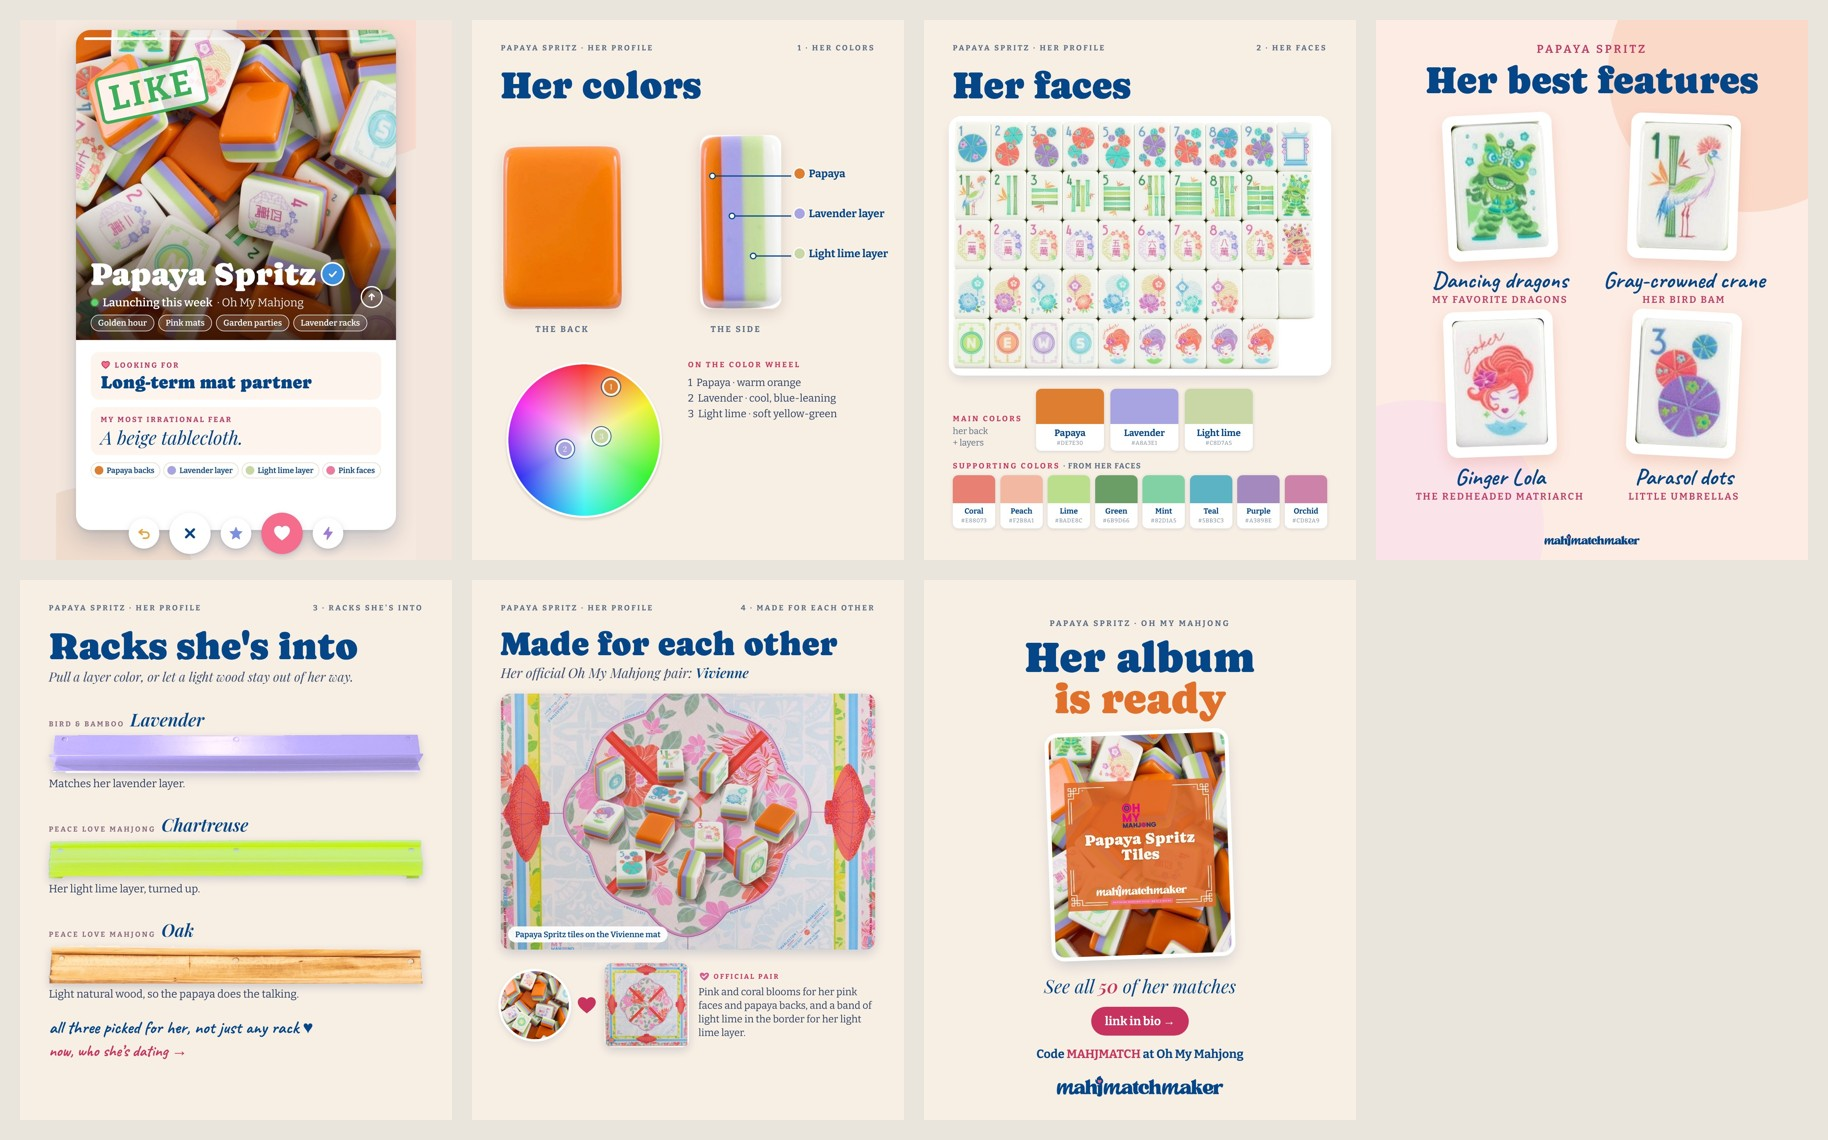
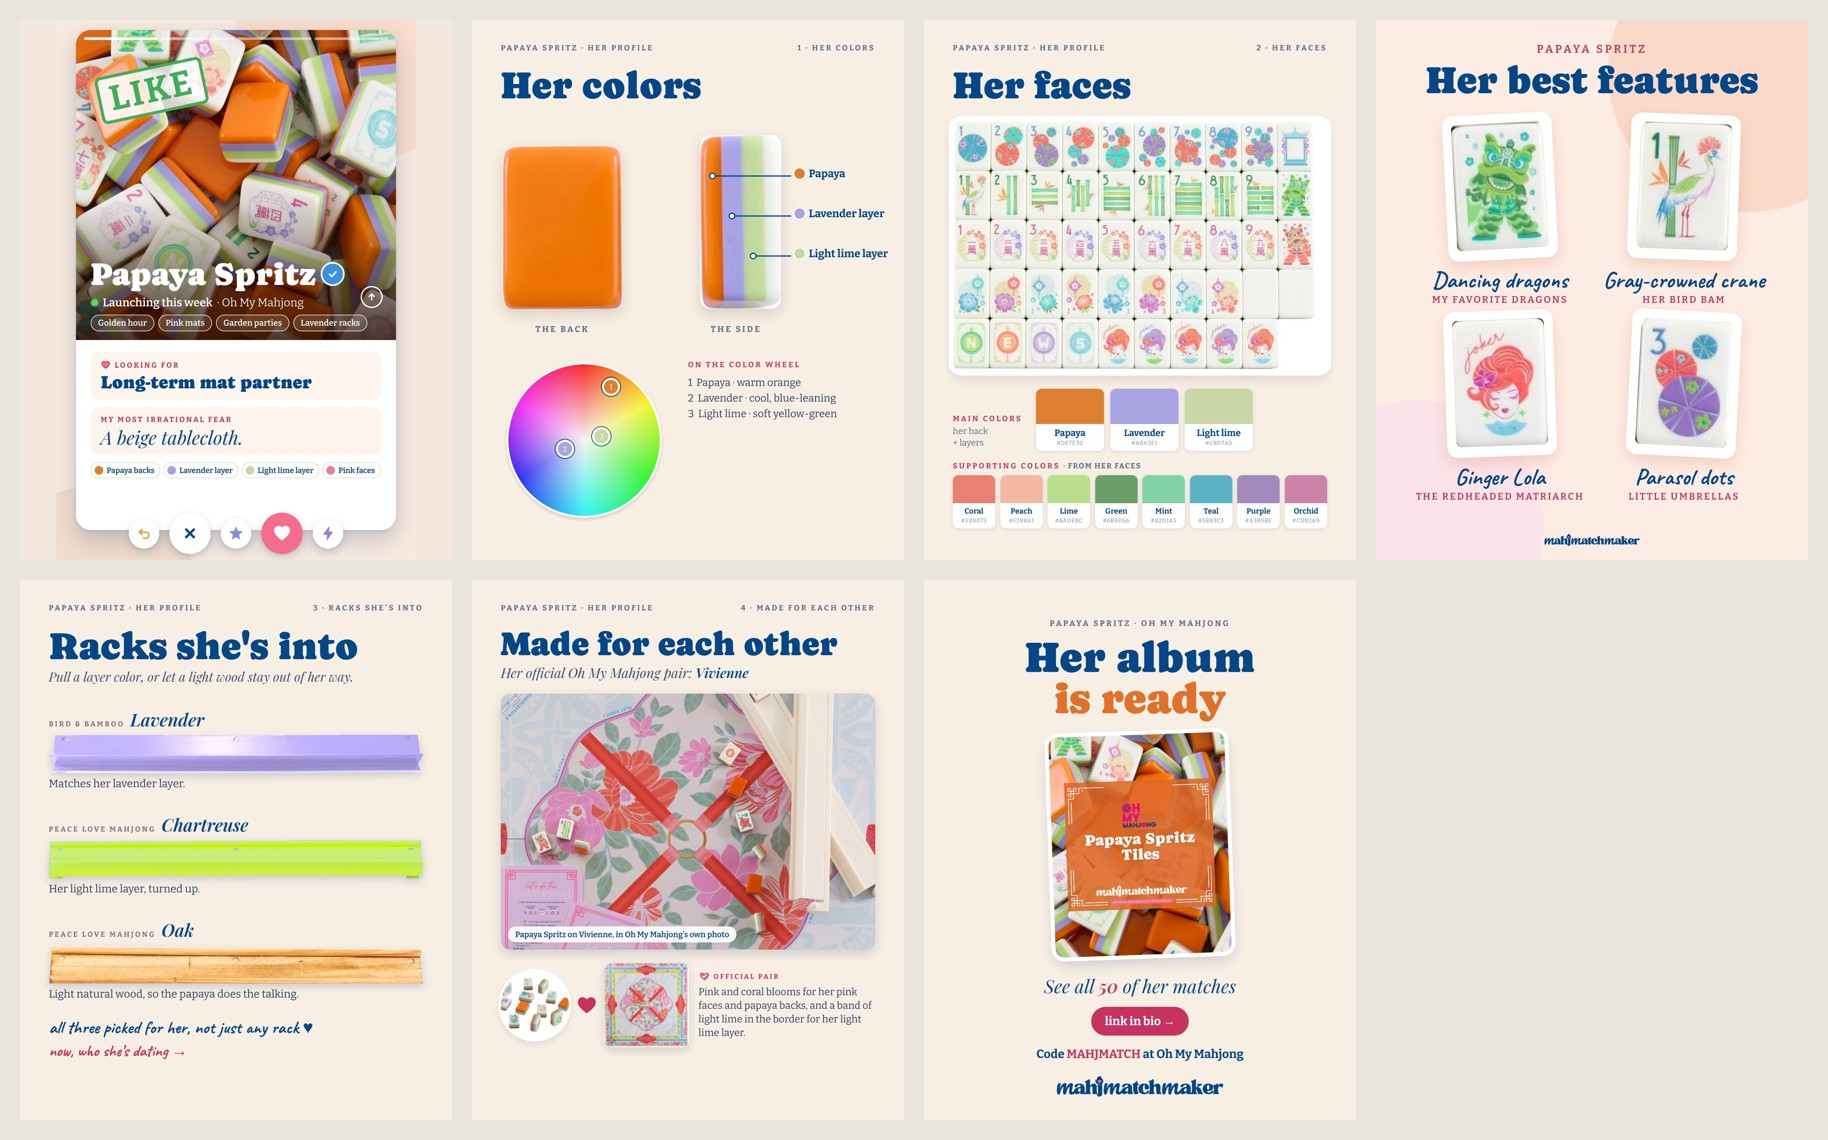
Papaya pair slide: OMM real-life Vivienne photo back as hero, tile scatter in the circle
Claude-Session: https://claude.ai/code/session_014aKoC1ZMdZPjGkZ9kHhnLk

Changed region(s): [[0.2495, 0.5833, 0.4989, 0.9211]]

diff --git a/assets/social/papaya-spritz-launch/html/intro-6.html b/assets/social/papaya-spritz-launch/html/intro-6.html
@@ -29,10 +29,10 @@ html,body{width:1080px;height:1350px;overflow:hidden;background:#f7eee4;color:#0
 <div style="position:absolute;top:120px;left:72px;right:72px">
  <div class="cap" style="font-size:84px;white-space:nowrap">Made for each other</div>
  <div class="pf" style="font-size:34px;margin-top:8px;color:#3c4f73">Her official Oh My Mahjong pair: <b style="font-weight:600;color:var(--navy)">Vivienne</b></div>
- <div class="ph" style="margin-top:30px;height:640px;border-radius:24px;background-image:url(file:///home/claude/mahjmatchmaker-data/assets/launches/omm-papaya-spritz-tiles/papaya-on-vivienne-composite.jpg);background-size:cover;background-position:center;box-shadow:0 10px 26px rgba(6,40,90,.16);position:relative">
-  <div style="position:absolute;left:18px;bottom:18px;background:rgba(255,255,255,.92);border-radius:99px;padding:8px 18px;font:600 20px Bit;color:var(--navy)">Papaya Spritz tiles on the Vivienne mat</div></div>
+ <div class="ph" style="margin-top:30px;height:640px;border-radius:24px;background-image:url(file:///home/claude/mahjmatchmaker-data/assets/launches/omm-vivienne-mat/02.jpg);background-size:150%;background-position:52% 42%;box-shadow:0 10px 26px rgba(6,40,90,.16);position:relative">
+  <div style="position:absolute;left:18px;bottom:18px;background:rgba(255,255,255,.92);border-radius:99px;padding:8px 18px;font:600 20px Bit;color:var(--navy)">Papaya Spritz on Vivienne, in Oh My Mahjong’s own photo</div></div>
  <div style="display:flex;align-items:center;gap:18px;margin-top:34px">
-  <div class="ph" style="flex:0 0 170px;height:170px;border-radius:50%;background-image:url(file:///home/claude/mahjmatchmaker-data/assets/tiles/album/papaya-spritz.jpg);box-shadow:0 0 0 6px #fff,0 8px 20px rgba(6,40,90,.16)"></div>
+  <div class="ph" style="flex:0 0 170px;height:170px;border-radius:50%;background:#fff url(file:///home/claude/mahjmatchmaker-data/assets/launches/omm-papaya-spritz-tiles/papaya-scatter-cutout.png) center/112% no-repeat;box-shadow:0 0 0 6px #fff,0 8px 20px rgba(6,40,90,.16)"></div>
   <div style="flex:0 0 auto"><svg width="54" height="54" viewBox="0 0 24 24" style="flex:0 0 auto;vertical-align:-3px"><path d="M12 21.5C5.5 16.6 2 13.2 2 8.9 2 5.9 4.4 3.5 7.3 3.5c1.9 0 3.6 1 4.7 2.5 1.1-1.5 2.8-2.5 4.7-2.5 2.9 0 5.3 2.4 5.3 5.4 0 4.3-3.5 7.7-10 12.6z" fill="var(--pink)"/></svg></div>
   <div class="ph" style="flex:0 0 210px;height:210px;border-radius:18px;background-image:url(file:///home/claude/mahjmatchmaker-data/assets/launches/omm-vivienne-mat/01.jpg);background-size:114%;box-shadow:0 8px 22px rgba(6,40,90,.16)"></div>
   <div style="flex:1;padding-left:6px"><div style="display:flex;align-items:center;gap:8px"><svg width="30" height="30" viewBox="0 0 24 24" style="flex:0 0 auto"><path d="M12 21.5C5.5 16.6 2 13.2 2 8.9 2 5.9 4.4 3.5 7.3 3.5c1.9 0 3.6 1 4.7 2.5 1.1-1.5 2.8-2.5 4.7-2.5 2.9 0 5.3 2.4 5.3 5.4 0 4.3-3.5 7.7-10 12.6z" fill="#d6608c" stroke="#fff" stroke-width="1.2"/><path d="M7.6 11.3l3 3 5.8-5.8" fill="none" stroke="#fff" stroke-width="2.2" stroke-linecap="round" stroke-linejoin="round"/></svg><span class="caps" style="font-size:17px;color:var(--pink)">Official pair</span></div>

diff --git a/assets/social/papaya-spritz-launch/html/s4.html b/assets/social/papaya-spritz-launch/html/s4.html
@@ -29,10 +29,10 @@ html,body{width:1080px;height:1350px;overflow:hidden;background:#f7eee4;color:#0
 <div style="position:absolute;top:120px;left:72px;right:72px">
  <div class="cap" style="font-size:84px;white-space:nowrap">Made for each other</div>
  <div class="pf" style="font-size:34px;margin-top:8px;color:#3c4f73">Her official Oh My Mahjong pair: <b style="font-weight:600;color:var(--navy)">Vivienne</b></div>
- <div class="ph" style="margin-top:30px;height:640px;border-radius:24px;background-image:url(file:///home/claude/mahjmatchmaker-data/assets/launches/omm-papaya-spritz-tiles/papaya-on-vivienne-composite.jpg);background-size:cover;background-position:center;box-shadow:0 10px 26px rgba(6,40,90,.16);position:relative">
-  <div style="position:absolute;left:18px;bottom:18px;background:rgba(255,255,255,.92);border-radius:99px;padding:8px 18px;font:600 20px Bit;color:var(--navy)">Papaya Spritz tiles on the Vivienne mat</div></div>
+ <div class="ph" style="margin-top:30px;height:640px;border-radius:24px;background-image:url(file:///home/claude/mahjmatchmaker-data/assets/launches/omm-vivienne-mat/02.jpg);background-size:150%;background-position:52% 42%;box-shadow:0 10px 26px rgba(6,40,90,.16);position:relative">
+  <div style="position:absolute;left:18px;bottom:18px;background:rgba(255,255,255,.92);border-radius:99px;padding:8px 18px;font:600 20px Bit;color:var(--navy)">Papaya Spritz on Vivienne, in Oh My Mahjong’s own photo</div></div>
  <div style="display:flex;align-items:center;gap:18px;margin-top:34px">
-  <div class="ph" style="flex:0 0 170px;height:170px;border-radius:50%;background-image:url(file:///home/claude/mahjmatchmaker-data/assets/tiles/album/papaya-spritz.jpg);box-shadow:0 0 0 6px #fff,0 8px 20px rgba(6,40,90,.16)"></div>
+  <div class="ph" style="flex:0 0 170px;height:170px;border-radius:50%;background:#fff url(file:///home/claude/mahjmatchmaker-data/assets/launches/omm-papaya-spritz-tiles/papaya-scatter-cutout.png) center/112% no-repeat;box-shadow:0 0 0 6px #fff,0 8px 20px rgba(6,40,90,.16)"></div>
   <div style="flex:0 0 auto"><svg width="54" height="54" viewBox="0 0 24 24" style="flex:0 0 auto;vertical-align:-3px"><path d="M12 21.5C5.5 16.6 2 13.2 2 8.9 2 5.9 4.4 3.5 7.3 3.5c1.9 0 3.6 1 4.7 2.5 1.1-1.5 2.8-2.5 4.7-2.5 2.9 0 5.3 2.4 5.3 5.4 0 4.3-3.5 7.7-10 12.6z" fill="var(--pink)"/></svg></div>
   <div class="ph" style="flex:0 0 210px;height:210px;border-radius:18px;background-image:url(file:///home/claude/mahjmatchmaker-data/assets/launches/omm-vivienne-mat/01.jpg);background-size:114%;box-shadow:0 8px 22px rgba(6,40,90,.16)"></div>
   <div style="flex:1;padding-left:6px"><div style="display:flex;align-items:center;gap:8px"><svg width="30" height="30" viewBox="0 0 24 24" style="flex:0 0 auto"><path d="M12 21.5C5.5 16.6 2 13.2 2 8.9 2 5.9 4.4 3.5 7.3 3.5c1.9 0 3.6 1 4.7 2.5 1.1-1.5 2.8-2.5 4.7-2.5 2.9 0 5.3 2.4 5.3 5.4 0 4.3-3.5 7.7-10 12.6z" fill="#d6608c" stroke="#fff" stroke-width="1.2"/><path d="M7.6 11.3l3 3 5.8-5.8" fill="none" stroke="#fff" stroke-width="2.2" stroke-linecap="round" stroke-linejoin="round"/></svg><span class="caps" style="font-size:17px;color:var(--pink)">Official pair</span></div>

diff --git a/scripts/social/tileprofile/carousel.py b/scripts/social/tileprofile/carousel.py
@@ -114,7 +114,7 @@ if OMM:
  <div class="ph" style="margin-top:30px;height:640px;border-radius:24px;background-image:url({TOG});background-size:{'cover' if pr.get('together_fit')=='cover' else '150%'};background-position:{'center' if pr.get('together_fit')=='cover' else '52% 42%'};box-shadow:0 10px 26px rgba(6,40,90,.16);position:relative">
   <div style="position:absolute;left:18px;bottom:18px;background:rgba(255,255,255,.92);border-radius:99px;padding:8px 18px;font:600 20px Bit;color:var(--navy)">{e(pr.get('together_caption') or (P['name']+' on '+pr['mat']+', in '+pr['brand']+'’s own photo'))}</div></div>
  <div style="display:flex;align-items:center;gap:18px;margin-top:34px">
-  <div class="ph" style="flex:0 0 170px;height:170px;border-radius:50%;background-image:url({TILE});box-shadow:0 0 0 6px #fff,0 8px 20px rgba(6,40,90,.16)"></div>
+  <div class="ph" style="flex:0 0 170px;height:170px;border-radius:50%;background:#fff url({url(pr['circle']) if pr.get('circle') else TILE}) center/{'112%' if pr.get('circle') else 'cover'} no-repeat;box-shadow:0 0 0 6px #fff,0 8px 20px rgba(6,40,90,.16)"></div>
   <div style="flex:0 0 auto">{HT(54)}</div>
   <div class="ph" style="flex:0 0 210px;height:210px;border-radius:18px;background-image:url({PM});background-size:114%;box-shadow:0 8px 22px rgba(6,40,90,.16)"></div>
   <div style="flex:1;padding-left:6px"><div style="display:flex;align-items:center;gap:8px">{VER(30)}<span class="caps" style="font-size:17px;color:var(--pink)">Official pair</span></div>
@@ -141,7 +141,7 @@ fd = ''
 for i, m in enumerate(P['first_dates']):
     t = next(x for x in P['her_type'] if x['mat'] == m)
     fd += f"""<div style="display:flex;align-items:center;gap:22px;margin-top:{26 if i else 34}px">
- <div class="ph" style="flex:0 0 170px;height:170px;border-radius:50%;background-image:url({TILE});box-shadow:0 0 0 6px #fff,0 8px 20px rgba(6,40,90,.16)"></div>
+ <div class="ph" style="flex:0 0 170px;height:170px;border-radius:50%;background:#fff url({url(pr['circle']) if pr.get('circle') else TILE}) center/{'112%' if pr.get('circle') else 'cover'} no-repeat;box-shadow:0 0 0 6px #fff,0 8px 20px rgba(6,40,90,.16)"></div>
  <div style="font:400 54px Capra;color:var(--pink)">&hearts;</div>
  <div class="ph" style="flex:0 0 260px;height:260px;border-radius:18px;background-image:url({url(MATS[m])});box-shadow:0 8px 22px rgba(6,40,90,.16)"></div>
  <div style="flex:1;padding-left:8px"><div class="caps" style="font-size:18px;color:var(--pink)">Match #{i + 1}</div>
